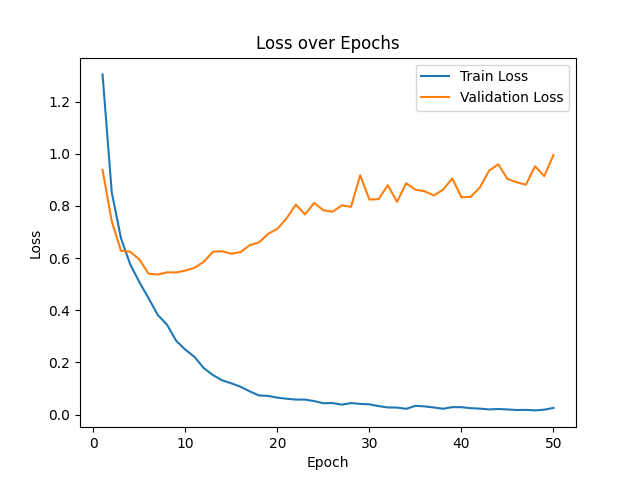
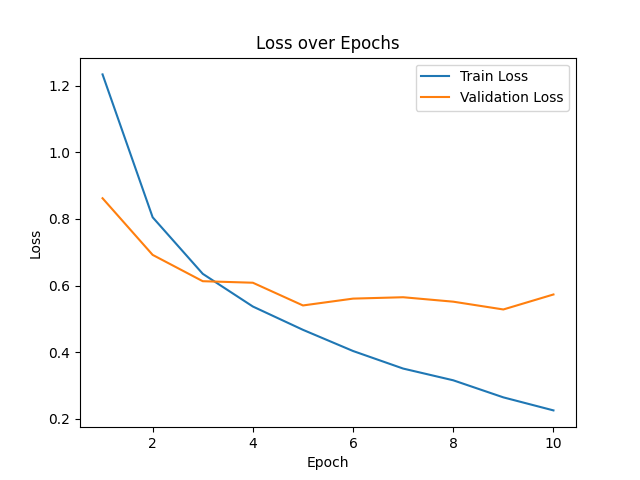
delete error codes

diff --git a/main.py b/main.py
@@ -13,17 +13,13 @@ def set_seed(seed=42):
 
 if __name__ == "__main__":
     
-    parser = argparse.ArgumentParser()
-    parser.add_argument("--train_mode", type=str,  default="70", help="train mode")
-    
-    
     torch.backends.cudnn.deterministic = True
     torch.backends.cudnn.benchmark = False
     set_seed(42)
     img_dir = "/media/data1/ningtong/wzh/projects/data/Image/aligned"
-    label_file_path = "/media/data1/ningtong/wzh/projects/data/Image/list_patition_label.txt"
+    label_file_path = "/media/data1/ningtong/wzh/projects/data/Image/dataset/labels/KU61/UK2/train.txt"
 
     dataloader_train, dataloader_eval, dataloader_test = get_dataloaders(img_dir, label_file_path)
 
     weights_dir = "/media/data1/ningtong/wzh/projects/Face-VII/weights"
-    train(50, 1, 7, dataloader_train, dataloader_eval, 5, weights_dir, var=False)
+    train(10, 1, 7, dataloader_train, dataloader_eval, 5, weights_dir, var=False)

diff --git a/util/uk_labels_create.py b/util/uk_labels_create.py
@@ -148,7 +148,7 @@ def create_label_files(base_folder):
 
 def main():
     # Set the base folder path where the 'aligned' folder and 'list_patition_label.txt' reside.
-    base_folder = "/Users/julianna/Desktop/rafdb"
+    base_folder = "/media/data1/ningtong/wzh/projects/data/Image"
     
     # Step 1: Create dataset structure for images.
    ## data_path = create_dataset_structure(base_folder)
